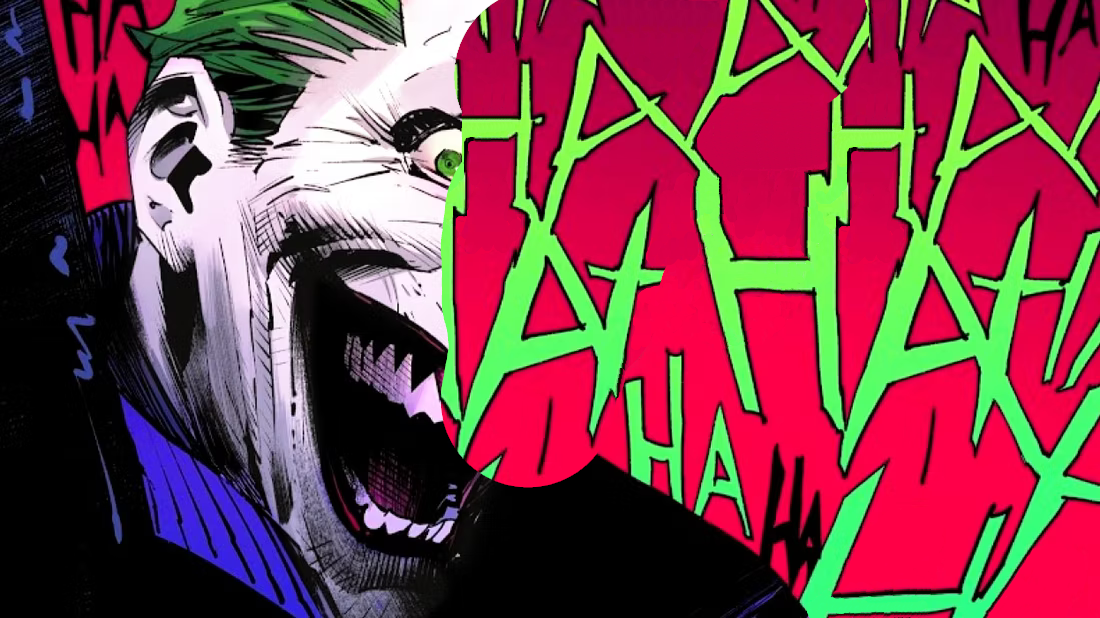
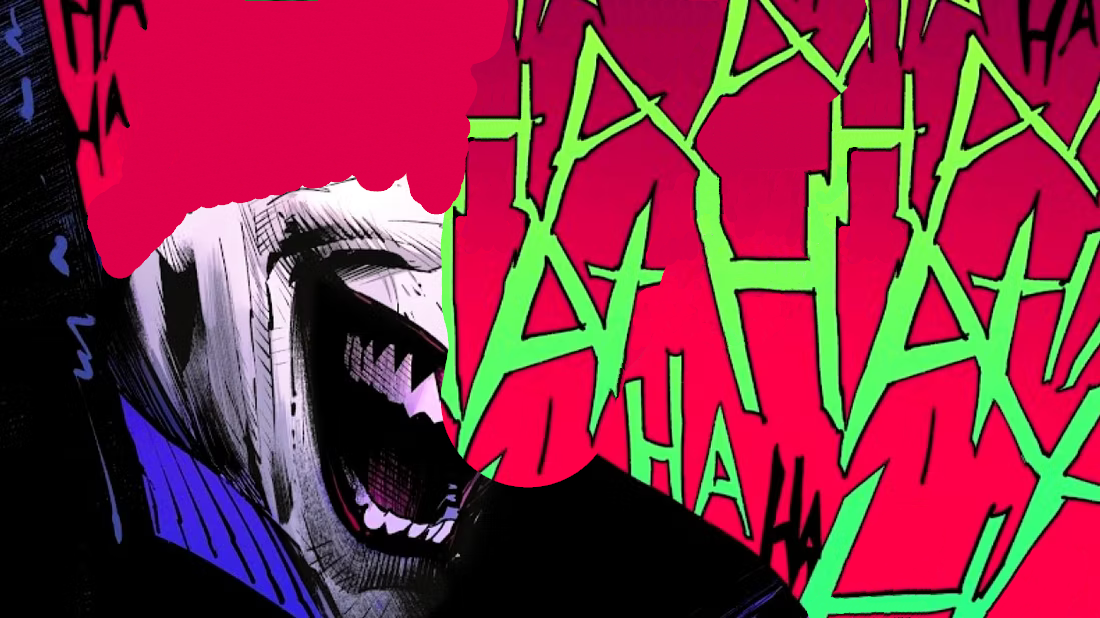
the joker case speech

Changed region(s): [[0.0618, 0.0, 0.4636, 0.4612]]

diff --git a/src/style.css b/src/style.css
@@ -471,18 +471,8 @@ footer {
     transform: rotate(-10deg);
     box-shadow: 8px 8px 5px rgba(0, 0, 0, 0.863);
 }
-/* .case-4 {
-    position: absolute;
-    top: -70px;
-    right: -60px;
-    width: 350px;
-    border: 2px solid black;
-    transform: rotate(20deg);
-    box-shadow: 8px 8px 5px rgba(0, 0, 0, 0.863);
-} */
-
+/*The joker case*/
 .case-4-frame {
-    background-color: violet;
     position: absolute;
     top: -70px;
     right: -60px;
@@ -492,8 +482,22 @@ footer {
     transform: rotate(20deg);
     box-shadow: 8px 8px 5px rgba(0, 0, 0, 0.863);
 }
+.case-4-frame:hover .the-joker {
+    scale: 1.2;
+    bottom: 19px;
+    left: 35px;
+    transition: 0.2s ease-in-out;
+}
+.case-4-frame:hover .bg-joker {
+    scale: 1.1;
+    animation: vibrate 0.1s infinite;
+    transition: transform 0.2s ease-in-out;
+}
+.case-4-frame:hover .speech-joker {
+    transition: transform 0.2s ease-in-out;
+    opacity: 1;
+}
 .div-bg-joker {
-    background-color: rgb(114, 13, 114);
     position: absolute;
     top: 0px;
     right: 0px;
@@ -507,17 +511,6 @@ footer {
     right: 0px;
     width: 350px;
     height: 198px;
-    /* scale: 1.1; */
-    /* animation: vibrate 0.1s infinite; */
-}
-.bg-joker:hover {
-    position: absolute;
-    top: 0px;
-    right: 0px;
-    width: 350px;
-    height: 198px;
-    scale: 1.1;
-    animation: vibrate 0.1s infinite;
 }
 @keyframes vibrate {
     0% {
@@ -537,7 +530,6 @@ footer {
     }
 }
 .div-the-joker {
-    /* background-color: green; */
     position: absolute;
     bottom: 0px;
     left: 0px;
@@ -550,24 +542,16 @@ footer {
     left: 0px;
     width: 350px;
     height: 198px;
-    transition: 0.1s ease-out;
-
 }
-.the-joker:hover {
+.speech-joker {
     position: absolute;
-    bottom: 19px;
-    left:35px;
-    width: 350px;
-    height: 198px;
-    scale: 1.2;
-    transition: 0.1s ease-out;
+    bottom: -122px;
+    left: 173px;
+    width: 336px;
+    opacity: 0;
+    filter: drop-shadow(-5px 5px 2px rgba(0, 0, 0, 0.658));
 }
-
-
-
-
-
-
+/*icone Next*/
 .next-icon {
     position: absolute;
     bottom: 10px;

diff --git a/src/project.php b/src/project.php
@@ -21,9 +21,7 @@
             </div>
             <div class="case-speech-2"><p>Wow, Batou... t'as surpasse Mister J !</p></div>
             <img class="case-3" src="assets/images/Project-Storyboard/07-Batman-superman.png" alt="">
-            <!-- JOKER START -->
-            <!-- <img class="case-4" src="assets/images/Project-Storyboard/06-joker.png" alt=""> -->
-            <!-- JOKER END -->
+
             <div class="case-4-frame"> <!-- DIV - CARDRE -->
                 <div class="div-bg-joker"> <!-- DIV - OVER HIDDEN FOR THE BACKGROUND + scale 1.2 -->
                     <img class="bg-joker" src="assets/images/Project-Storyboard/multiple-joker1-0.png" alt="bgjoker"> <!-- IMG - THE BACKGROUND -->
@@ -31,11 +29,12 @@
                 <div class="div-the-joker"> <!-- DIV NOT OVER HIDDEN FOR THE JOKER -->
                     <img class="the-joker" src="assets/images/Project-Storyboard/multiple-joker1-1.png"  alt=""> <!-- THE JOKER WITHOUT BACKGROUND -->
                 </div>
+                <img class="speech-joker" src="assets/images/Project-Storyboard/speech1-joker.png"  alt=""> <!-- THE JOKER SPEECH CASE -->
             </div>
 
 
             <figcaption class="story-case">
-                <p>Welcome to my project</p>
+                <p>Welcome <br> to my project</p>
                 <p>Lorem ipsum dolor sit amet consectetur adipisicing elit. Aliquam rerum accusamus nulla, et placeat in, inventore, quis sit quisquam illo ullam obcaecati reprehenderit cum! Saepe numquam fugit odit! Nulla veritatis, quasi cupiditate error, deserunt iure, sint non neque nemo nam incidunt? Iste eos earum, nisi rem soluta tempora repellendus iure quod praesentium nulla reprehenderit numquam expedita hic facere possimus, ratione iusto nesciunt sed dolores error impedit obcaecati accusantium id. Maiores ullam voluptatum eos, fuga sapiente veritatis rerum quia dignissimos dolor harum, neque inventore officia provident, animi ut iste quibusdam iusto rem quisquam delectus accusantium quis exercitationem quasi. Totam culpa illo, maxime nostrum architecto, vitae, dolores velit perspiciatis et autem eos ducimus cum libero incidunt. Inventore pariatur porro consequatur non in maiores nemo, saepe dicta nihil itaque ex maxime voluptas nostrum sapiente tenetur modi molestiae ducimus, dolor nobis.</p>
             </figcaption>
             <img class="next-icon" src="assets/images/Project-Storyboard/next-icon.png" alt="">
